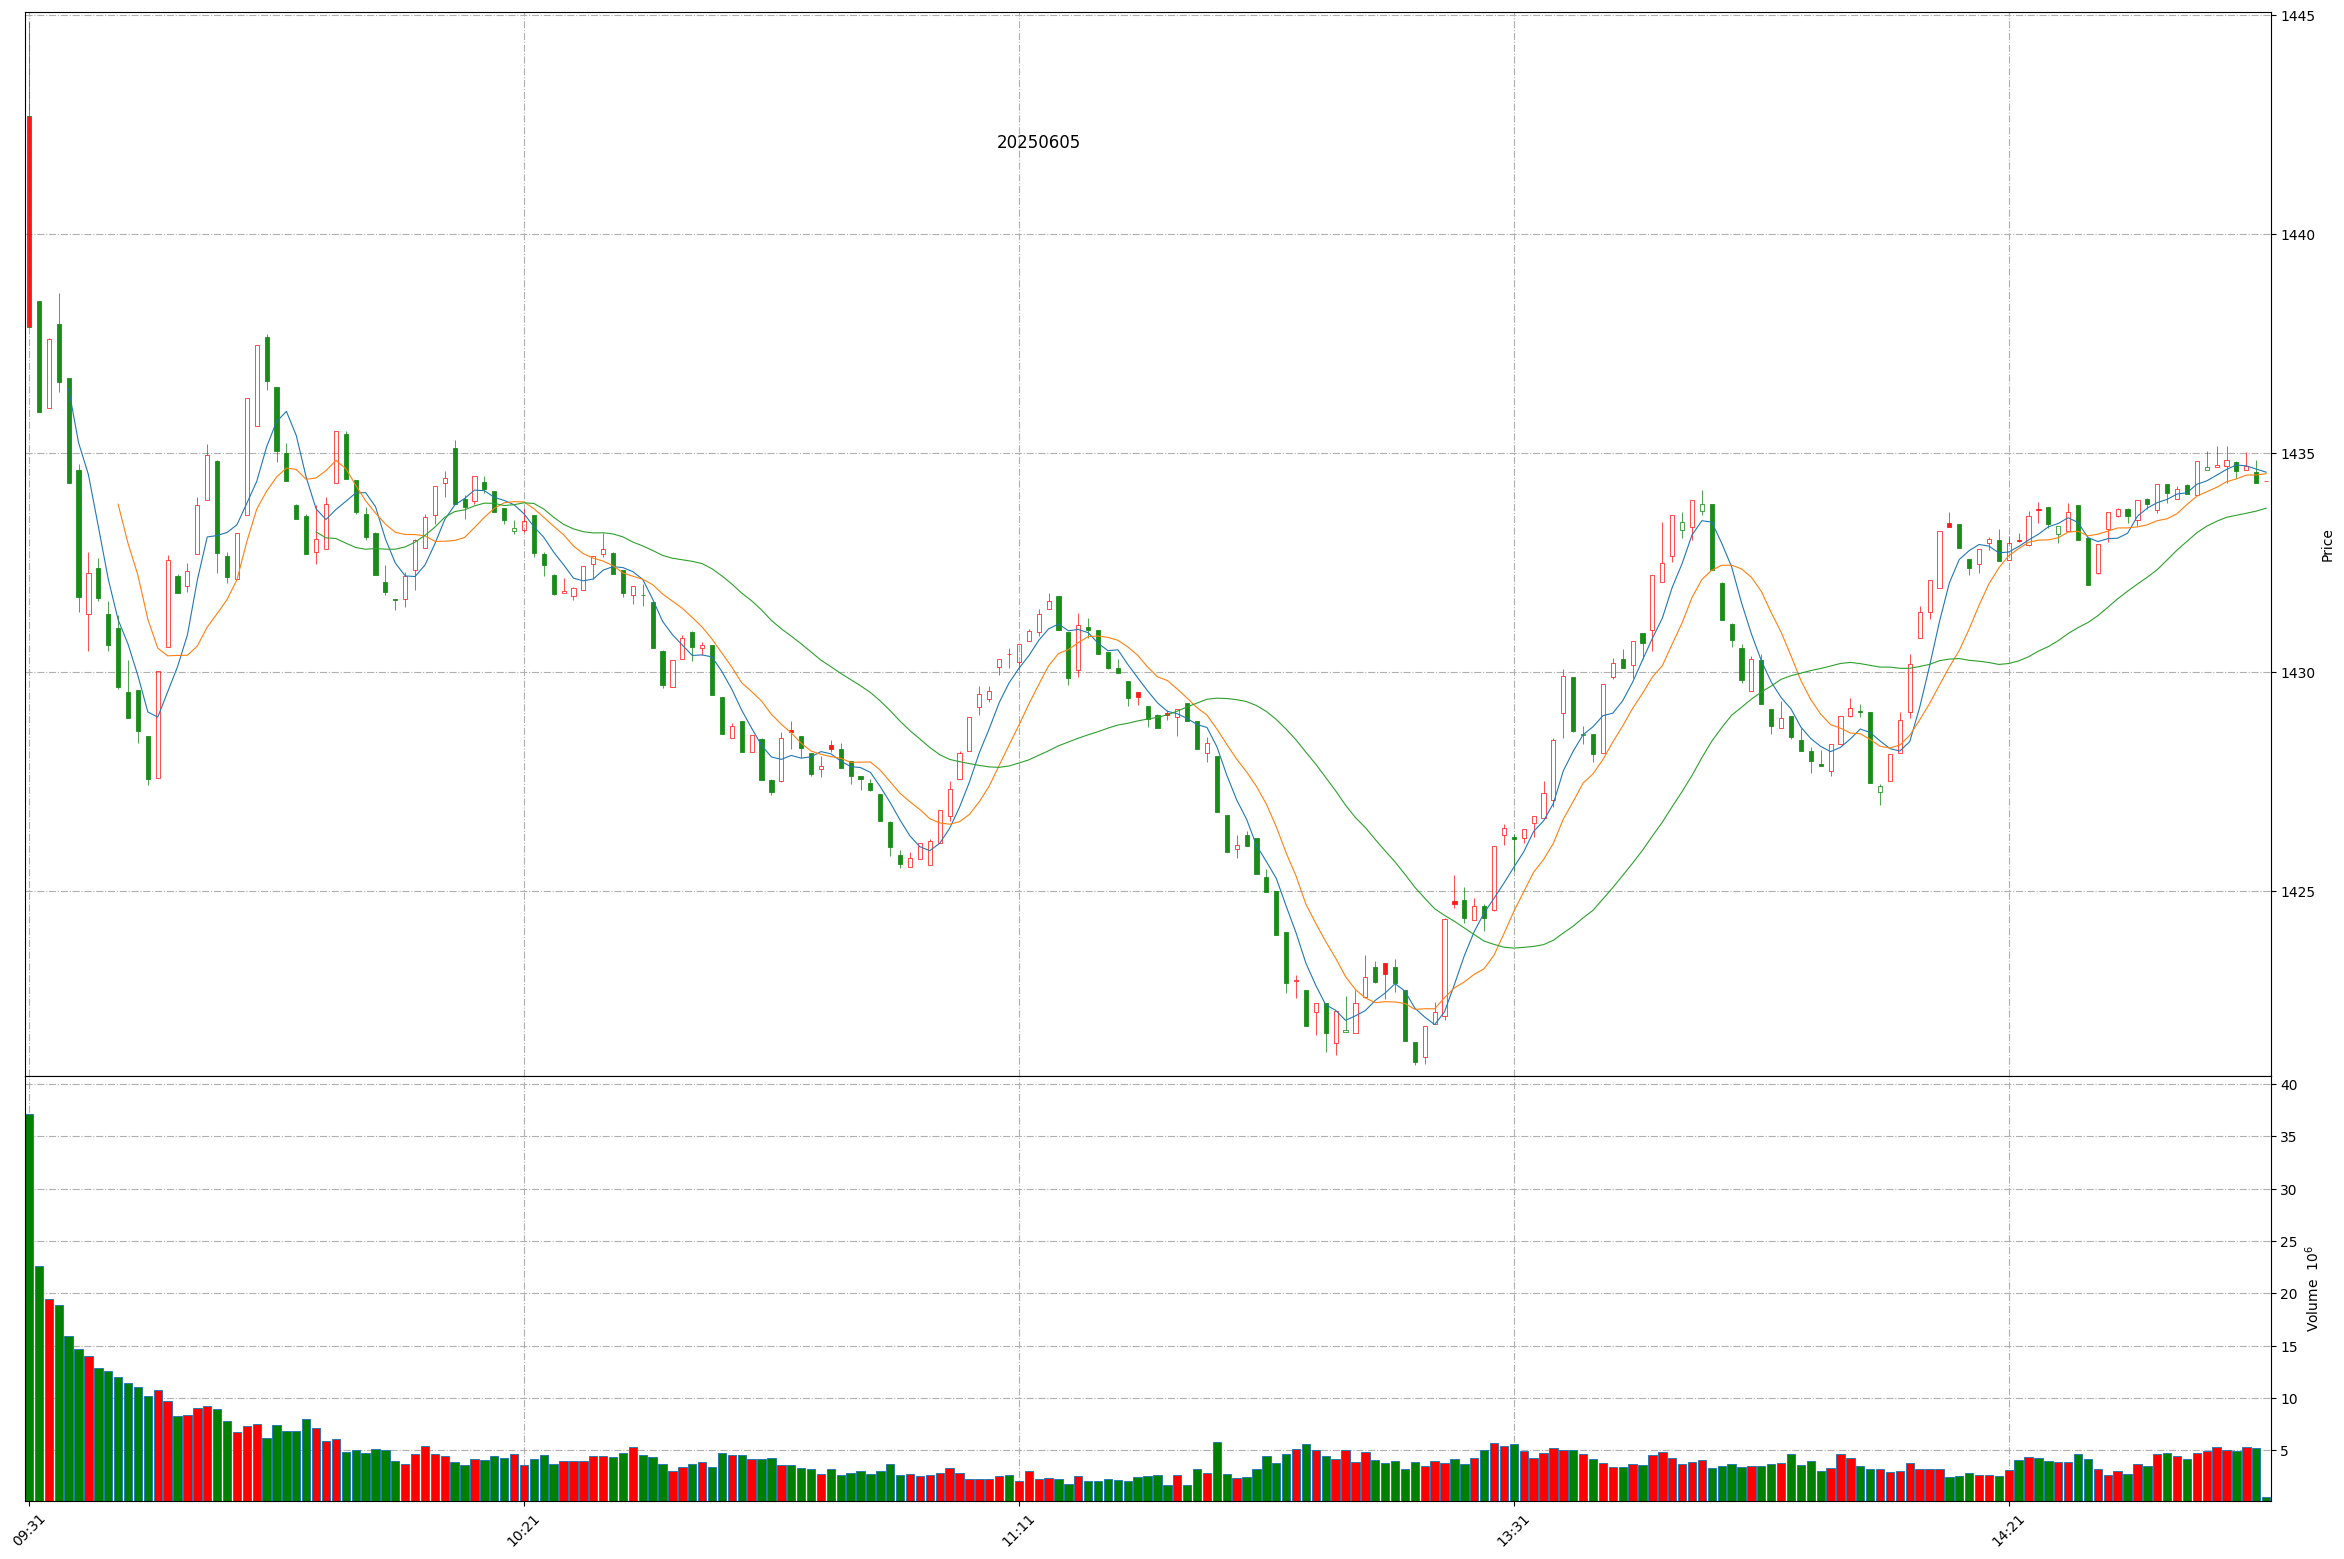
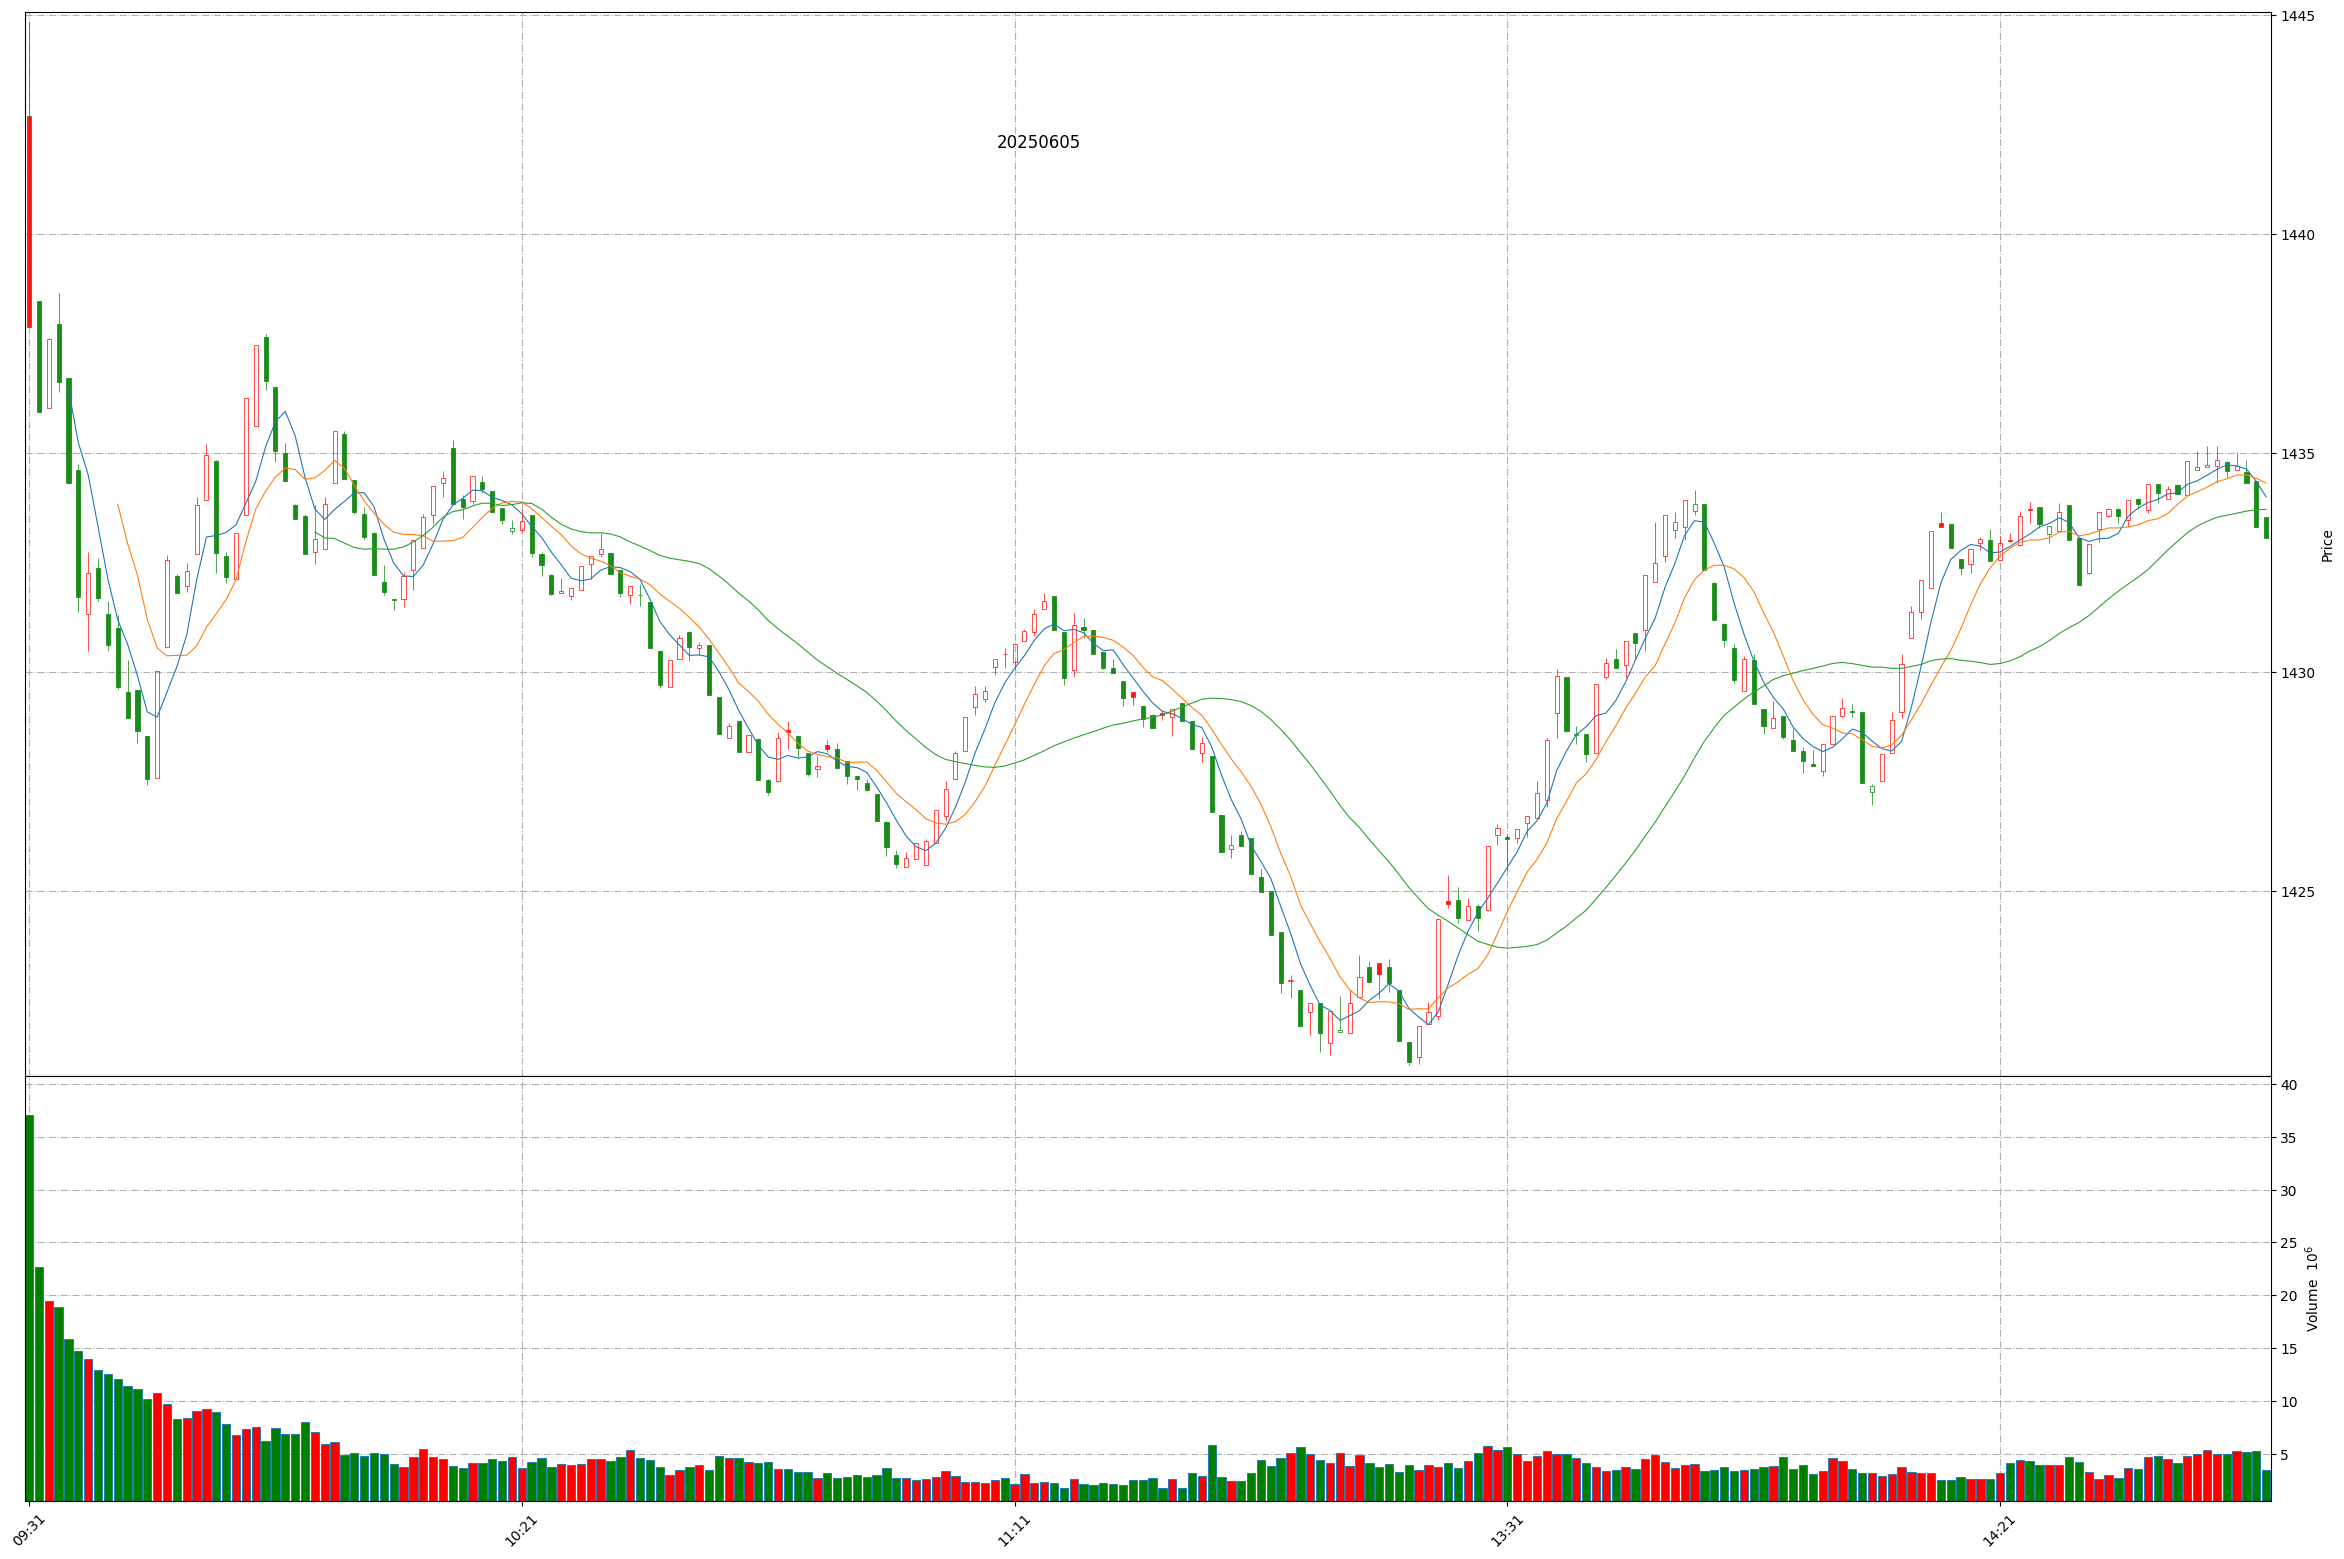
Github action update at 2025-06-05 14:47:44.

diff --git a/README.md b/README.md
@@ -1,11 +1,11 @@
 
 # Daily-A-share-market-quotes 每日 A 股指数（5min 更新）- 20250605
 
-### 上证指数 20250605 14:46
+### 上证指数 20250605 14:47
 ![](./fig/2025/6/20250605-sh000001.png)
 
-### 深证成指 20250605 14:46
+### 深证成指 20250605 14:47
 ![](./fig/2025/6/20250605-sz399001.png)
 
-### 北证50 20250605 14:46
+### 北证50 20250605 14:47
 ![](./fig/2025/6/20250605-bj899050.png)
